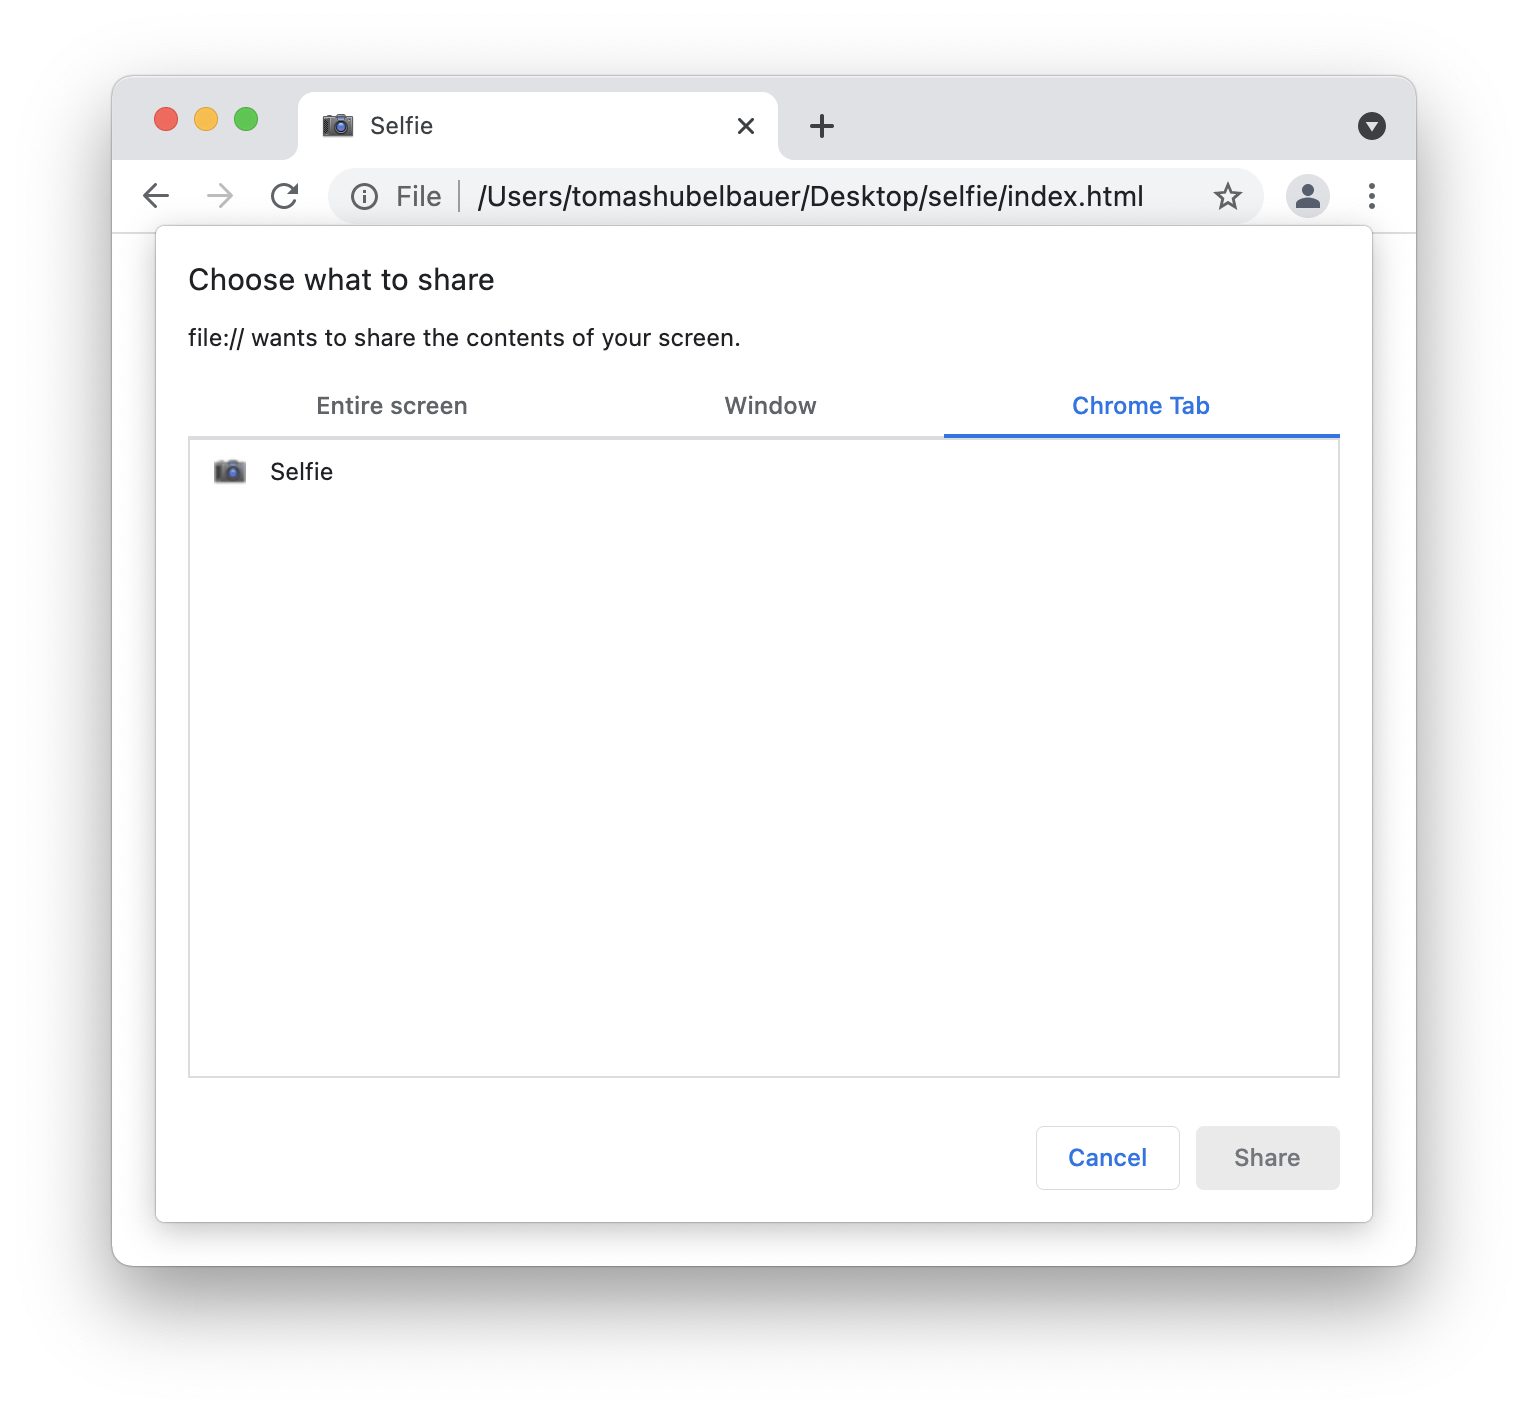
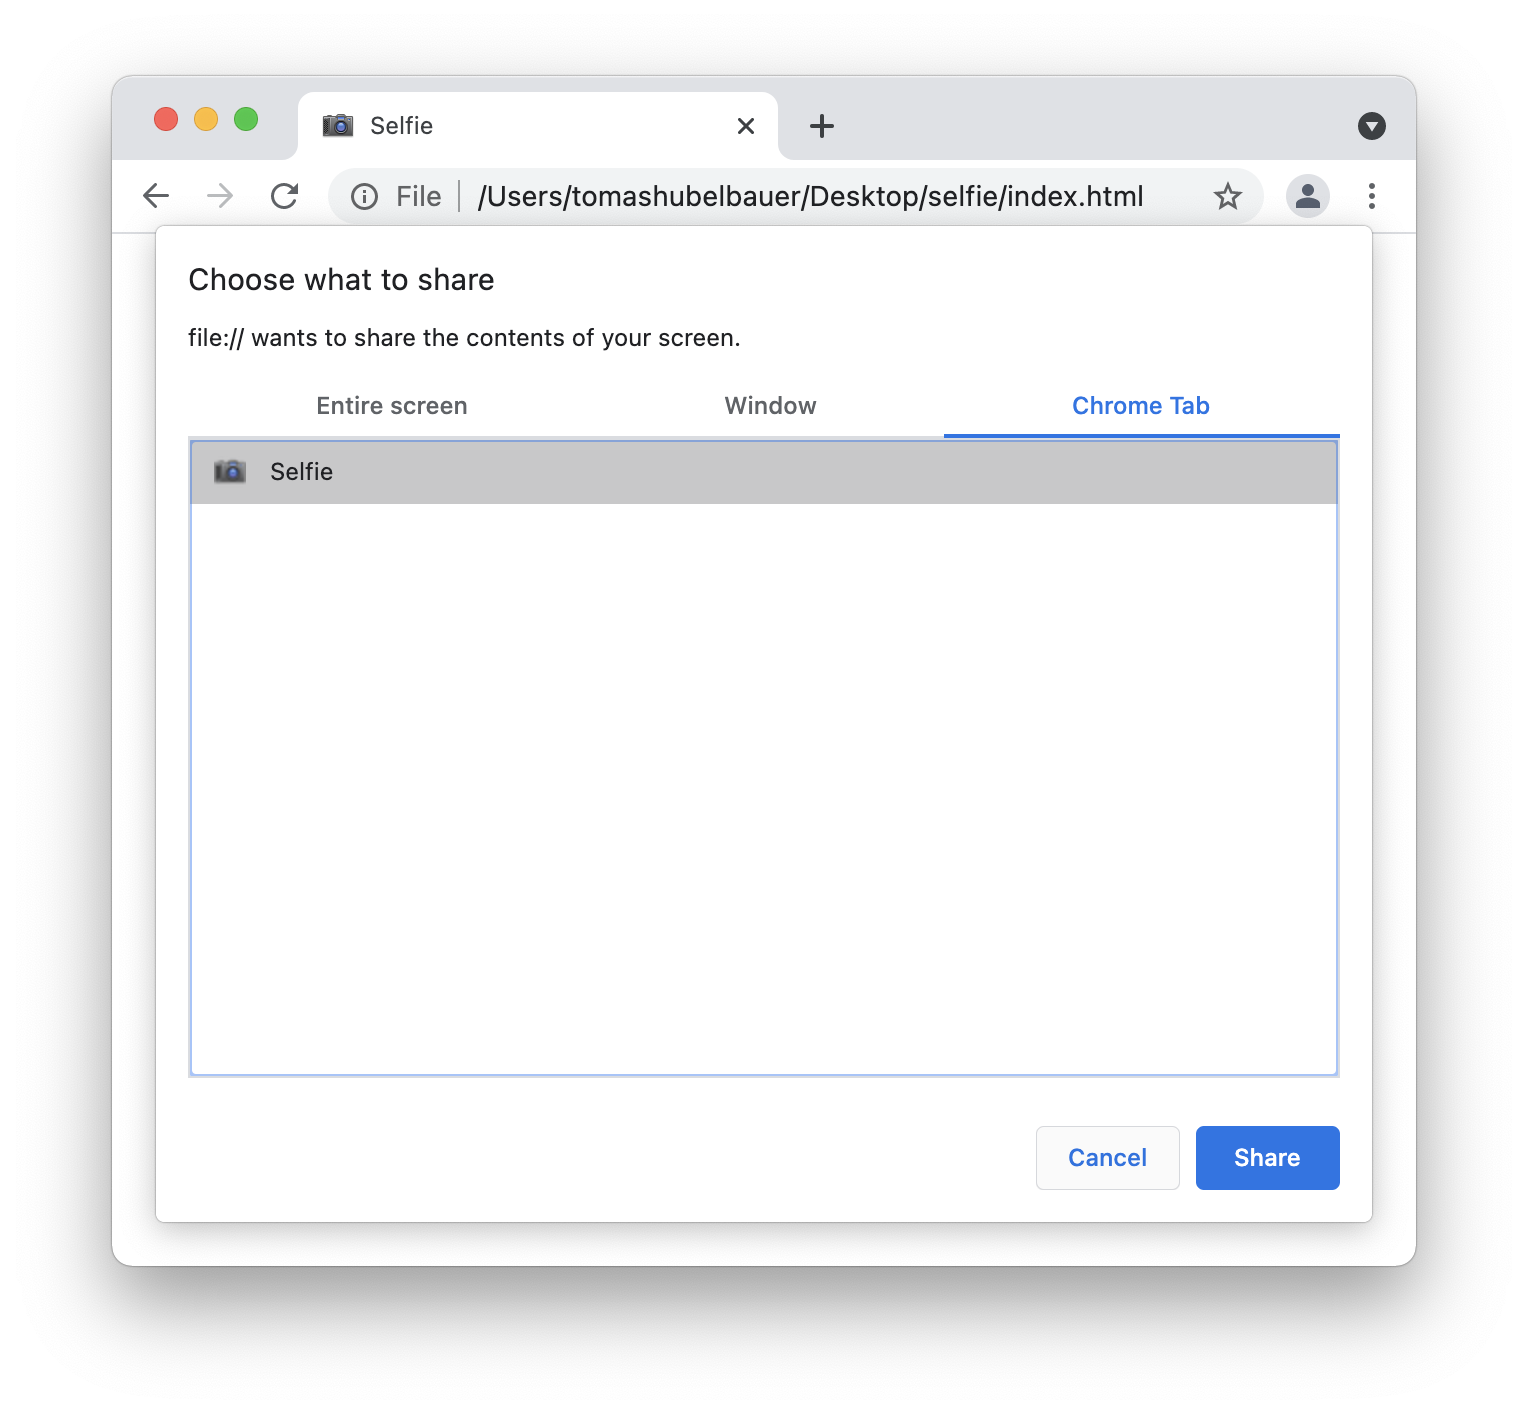
Use marker crop automation by default

Changed region(s): [[0.123, 0.3112, 0.892, 0.3734], [0.769, 0.7779, 0.892, 0.8402]]

diff --git a/index.js b/index.js
@@ -4,59 +4,50 @@ import crop from './crop.js';
 
 window.addEventListener('load', async () => {
   if (!navigator.mediaDevices.getDisplayMedia) {
-    const buttonsDiv = document.getElementById('buttonsDiv');
+    const introP = document.getElementById('introP');
     const code = document.createElement('code');
     code.textContent = 'getDisplayMedia';
     const fragment = document.createDocumentFragment();
     fragment.append(code);
     fragment.append(' API is not supported in this browser.');
-    buttonsDiv.replaceWith(fragment);
+    introP.replaceWith(fragment);
   }
 
   const buttons = document.getElementsByClassName('snapButton');
   for (const button of buttons) {
     button.addEventListener('click', async () => {
       try {
-        document.body.replaceWith(await snap());
+        // Calculate the horizontal and vertical distance between marker midpoints
+        const marker = parseInt(window.getComputedStyle(document.body).getPropertyValue('--marker-size'));
+        const border = parseInt(window.getComputedStyle(document.body).getPropertyValue('--marker-border'));
+        const left = parseInt(window.getComputedStyle(document.body, '::before').left);
+        const top = parseInt(window.getComputedStyle(document.body, '::before').top);
+        const right = parseInt(window.getComputedStyle(document.body, '::after').right);
+        const bottom = parseInt(window.getComputedStyle(document.body, '::after').bottom);
+        const width = window.innerWidth - right - left - border * 2 - marker;
+        const height = window.innerHeight - bottom - top - border * 2 - marker;
+
+        document.body.classList.toggle('markers', true);
+        const canvas = await snap();
+        document.body.classList.toggle('markers', false);
+
+        const context = canvas.getContext('2d');
+
+        // TODO: Encode known Firefox, Chrome & Safari color values when encoded
+        const region = scan(context, 120, width, height, marker, false);
+        if (region === undefined) {
+          document.body.replaceWith(canvas);
+          alert('No markers found. Did you select the right tab or full screen?');
+          return;
+        }
+
+        document.body.replaceWith(crop(canvas, region));
       }
       catch (error) {
         alert(error);
       }
     });
   }
-
-  const scanButton = document.getElementById('scanButton');
-  scanButton.addEventListener('click', async () => {
-    try {
-      // Calculate the horizontal and vertical distance between marker midpoints
-      const marker = parseInt(window.getComputedStyle(document.body).getPropertyValue('--marker-size'));
-      const border = parseInt(window.getComputedStyle(document.body).getPropertyValue('--marker-border'));
-      const left = parseInt(window.getComputedStyle(document.body, '::before').left);
-      const top = parseInt(window.getComputedStyle(document.body, '::before').top);
-      const right = parseInt(window.getComputedStyle(document.body, '::after').right);
-      const bottom = parseInt(window.getComputedStyle(document.body, '::after').bottom);
-      const width = window.innerWidth - right - left - border * 2 - marker;
-      const height = window.innerHeight - bottom - top - border * 2 - marker;
-
-      document.body.classList.toggle('markers', true);
-      const canvas = await snap();
-      document.body.classList.toggle('markers', false);
-
-      const context = canvas.getContext('2d');
-
-      // TODO: Encode known Firefox, Chrome & Safari color values when encoded
-      const region = scan(context, 120, width, height, marker, false);
-      if (region === undefined) {
-        document.body.replaceWith(canvas);
-        throw new Error('Highlighted area not found. Are the markers visible?');
-      }
-
-      document.body.replaceWith(crop(canvas, region));
-    }
-    catch (error) {
-      alert(error);
-    }
-  });
 
   // Display usage instructions for the current browser, or none if too niche
   if (navigator.userAgent.indexOf("Chrome") != -1) {

diff --git a/index.html b/index.html
@@ -13,7 +13,7 @@
       <img src="icon.png" />
       Selfie
     </h1>
-    <p>
+    <p id="introP">
       This page uses the
       <a href="https://developer.mozilla.org/en-US/docs/Web/API/MediaDevices/getDisplayMedia">
         <code>getDisplayMedia</code> API
@@ -22,10 +22,6 @@
       <a href="https://github.com/TomasHubelbauer/selfie">
         Source code and documentation on GitHub
       </a>
-    </p>
-    <p id="buttonsDiv">
-      <button class="snapButton">Take Screenshot</button>
-      <button id="scanButton">Take Screenshot (Area)</button>
     </p>
     <div class="guideDiv firefox">
       <img src="firefox.png" class="icon" />
@@ -39,8 +35,9 @@
       <p>Expand the Window Or Screen selector</p>
       <img src="firefox-1.png" />
       <h3>3.</h3>
-      <p>Select the Selfie tab</p>
+      <p>Select the Selfie tab or Entire Screen</p>
       <img src="firefox-2.png" />
+      <p>The tab content will get cropped out automatically.</p>
       <h3>4.</h3>
       <p>Press the Allow button</p>
       <img src="firefox-3.png" />
@@ -58,9 +55,10 @@
         button.
       </p>
       <h3>2.</h3>
-      <p>Safari always provides a capture of the entire screen.</p>
+      <p>Safari only provides a capture of the entire screen.</p>
       <img src="safari-1.png" />
       <p>Press the Allow button</p>
+      <p>The tab content will get cropped out automatically.</p>
       <h3>3.</h3>
       <p>The screenshot will appear.</p>
       <p>Right-click on it and select Save Image As… to download it.</p>
@@ -75,17 +73,15 @@
         button.
       </p>
       <h3>2.</h3>
+      <p>Select Entire Screen item or the Selfie tab Chrome Tabs tab</p>
       <img src="chrome-1.png" />
-      <h3>3.</h3>
-      <p>Select the Chrome Tabs tab</p>
       <img src="chrome-2.png" />
-      <h3>4.</h3>
       <p>Press the Share button</p>
-      <img src="chrome-3.png" />
-      <h3>5.</h3>
+      <p>The tab content will get cropped out automatically.</p>
+      <h3>3.</h3>
       <p>The screenshot will appear.</p>
       <p>Right-click on it and select Save Image As… to download it.</p>
-      <img src="chrome-4.png" />
+      <img src="chrome-3.png" />
     </div>
   </body>
 </html>
